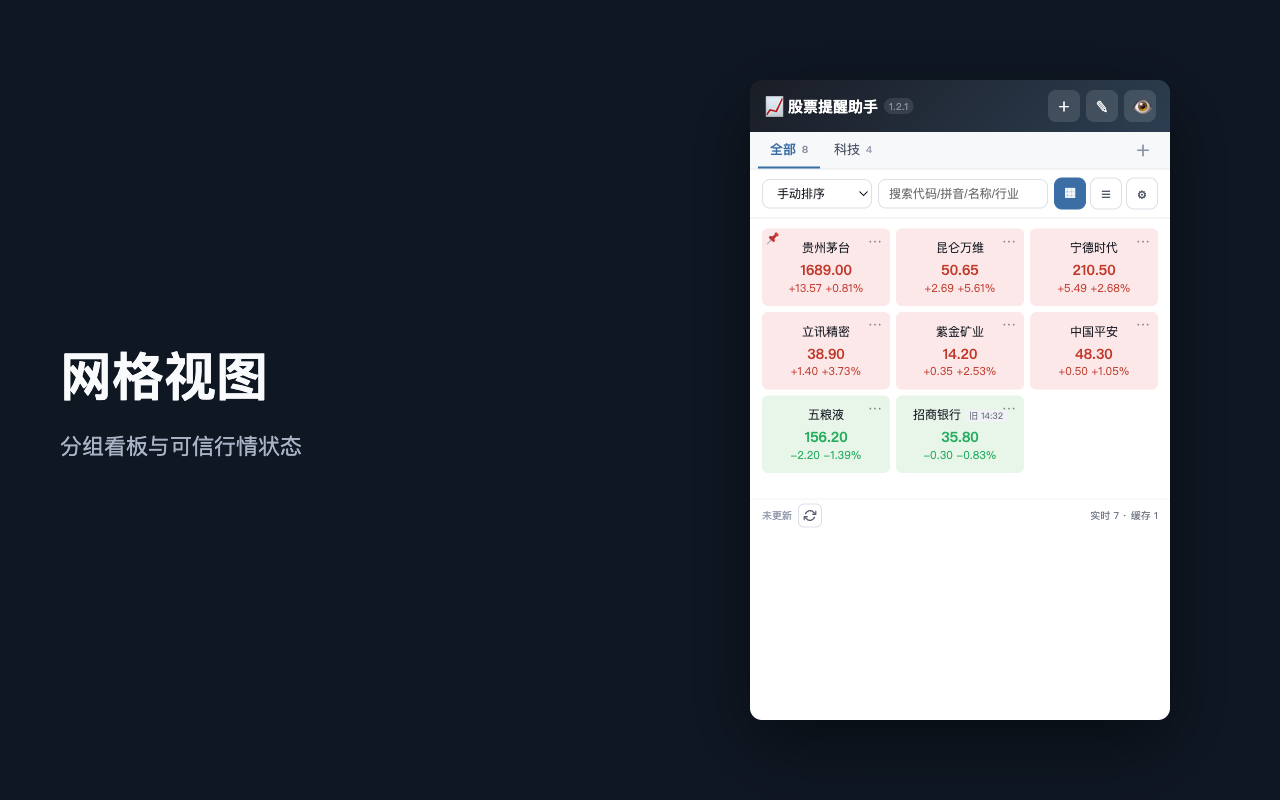
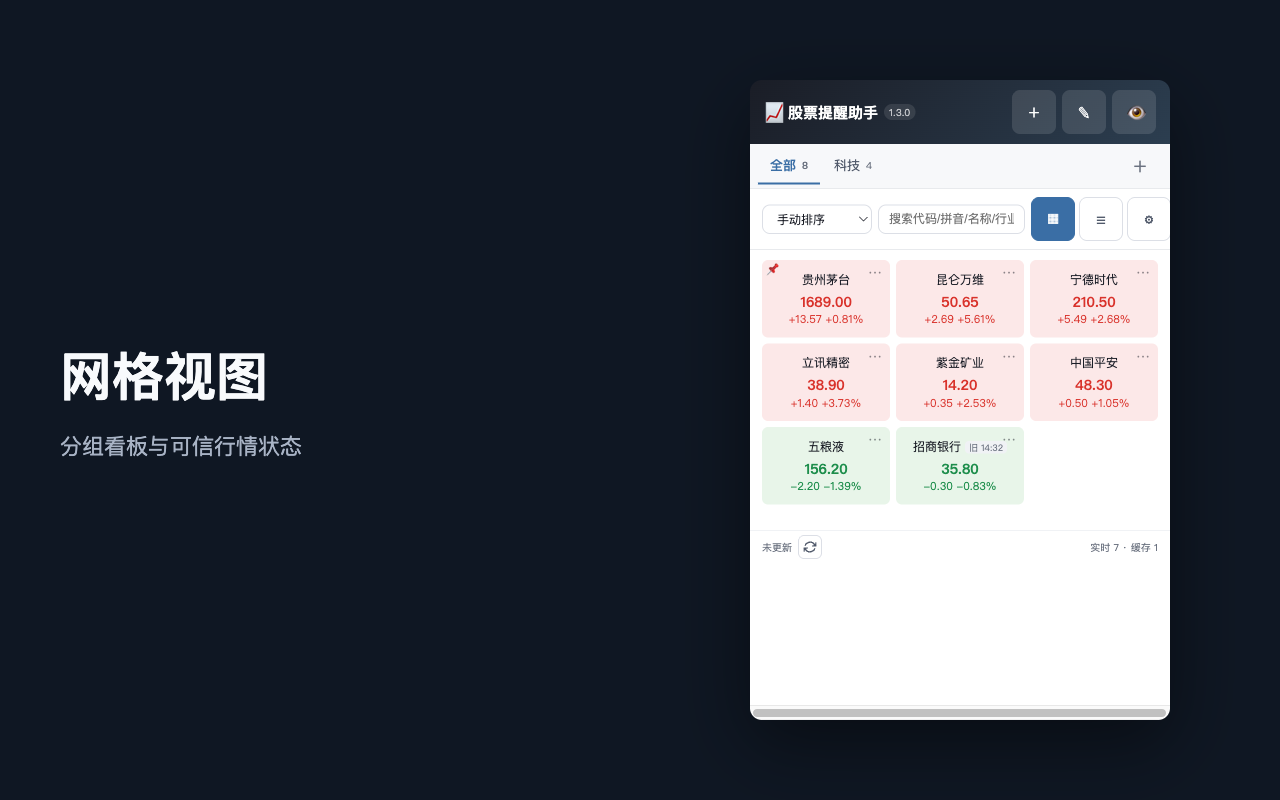
chore: bump version to 1.3.0

diff --git a/CHANGELOG.md b/CHANGELOG.md
@@ -1,6 +1,28 @@
 # 更新日志
 
-## v1.2.1 (当前版本)
+## v1.3.0 — 架构与体验
+
+### 架构升级
+- Service Worker 成为行情数据唯一所有者，Popup 通过 RPC 消息总线请求
+- 新增 `router.js` RPC 路由器（14 个 action）
+- 新增 `popup-bridge.js` RPC 客户端（含超时保护）
+- popup.js 拆分为 5 个模块：bridge / state / render / actions / entry
+
+### 代码质量
+- 提取 `quote-format.js` 共享格式化模块，消除 Popup/Background 重复
+- CSS 设计令牌系统（CSS Custom Properties）
+- 协议契约测试：Bridge ↔ Router 一致性验证
+
+### 无障碍 (WCAG 2.1 AA)
+- ARIA 标记：tablist、region、dialog、alert、status
+- 键盘导航：分组 Tab 箭头键、卡片 Enter 置顶
+- 颜色对比度修复：次要文本、涨跌色加深至 4.5:1
+- 触控目标扩展至 44px
+- `prefers-reduced-motion` 支持
+
+---
+
+## v1.2.1
 
 ### 新增功能
 - **全局分组语义**：「全部」改为计算视图，股票加入任意自定义分组后始终出现在「全部」，`groupIds` 只保存自定义分组
